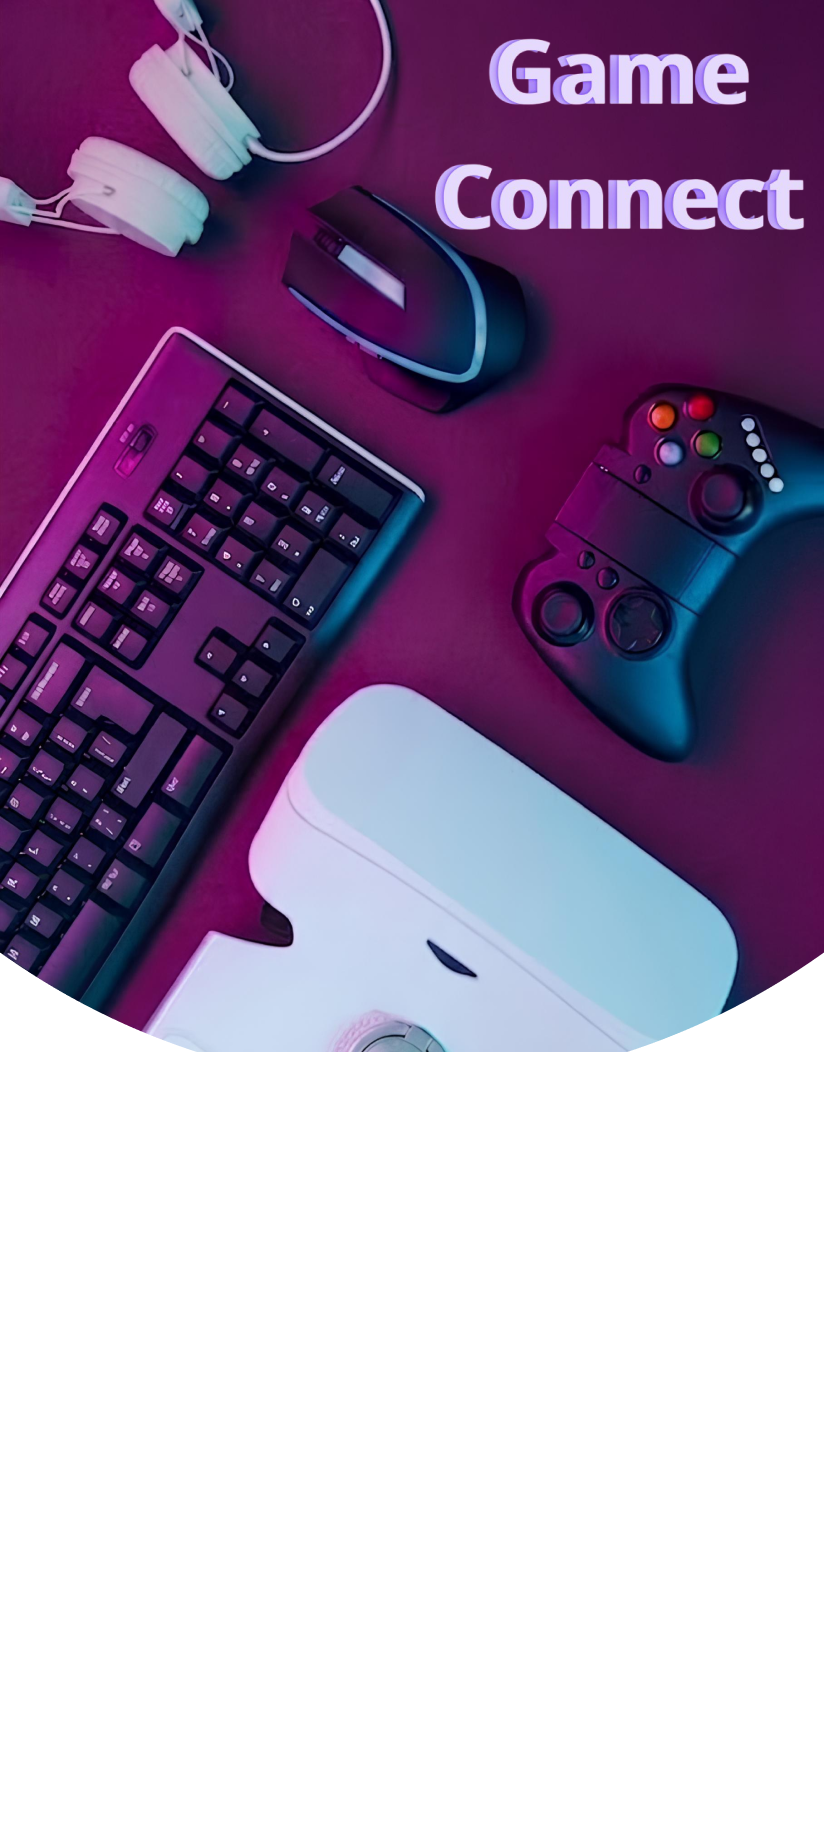
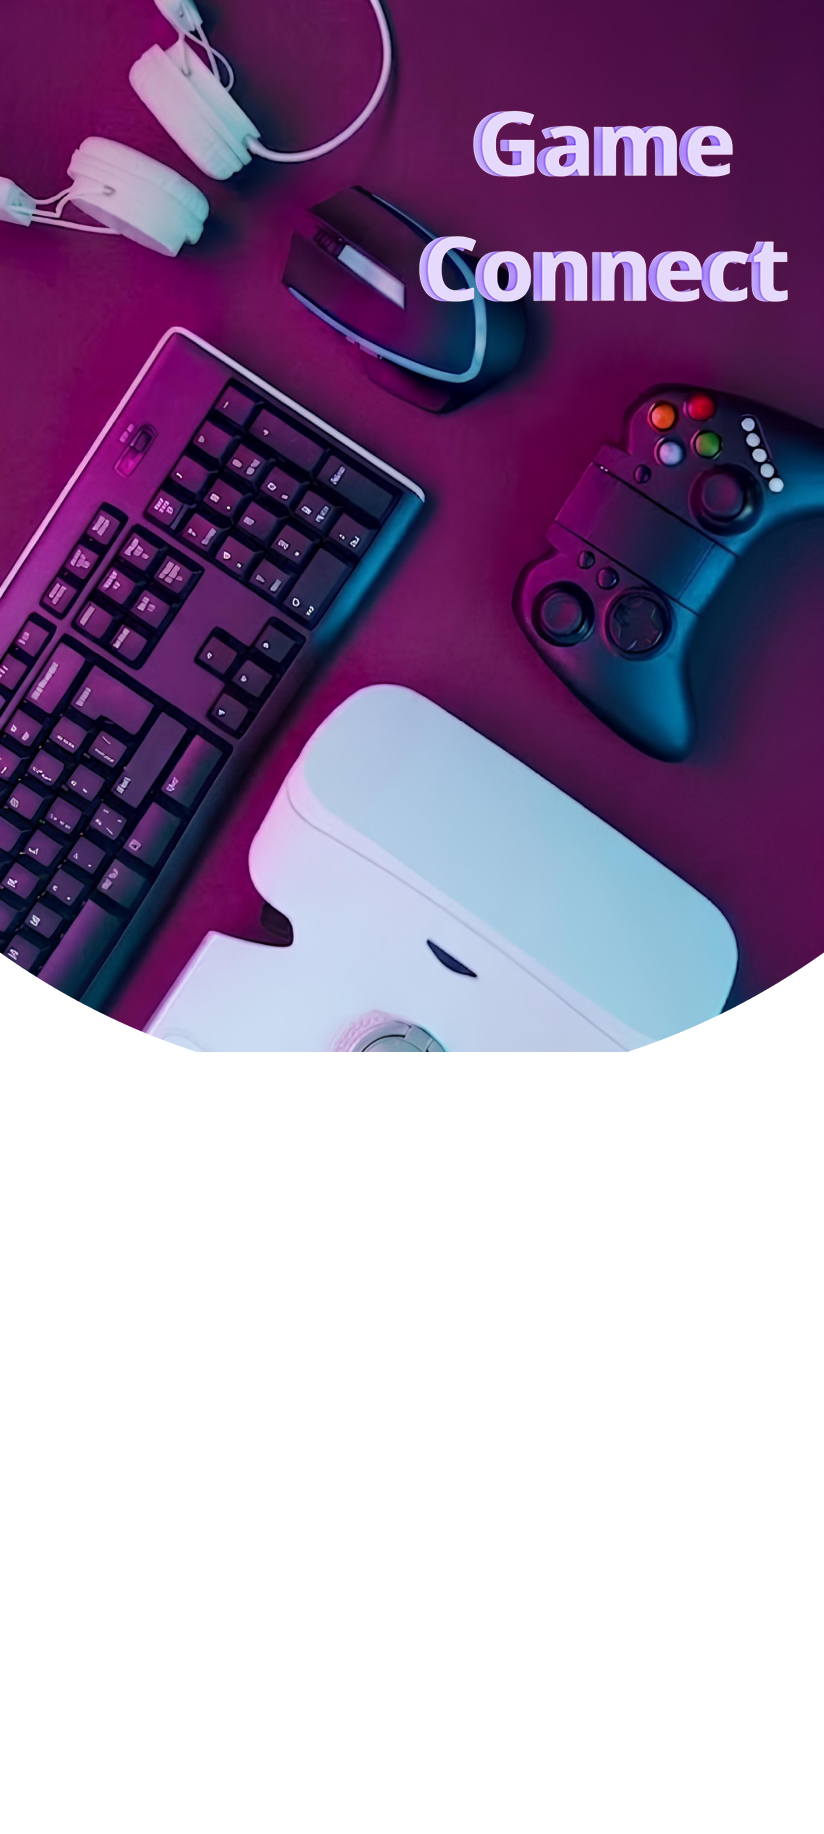
feat(auth): add recovery screen and link from login and forgot password screens

Changed region(s): [[0.4854, 0.0, 0.9709, 0.1865]]

diff --git a/app/(auth)/recovery.tsx b/app/(auth)/recovery.tsx
@@ -1,0 +1,77 @@
+import { useState } from "react";
+import { StyleSheet, TextInput, Pressable, Text, ActivityIndicator } from "react-native";
+import { Link } from "expo-router";
+import { AuthBackground } from "@/src/components/auth/auth-background";
+import { AuthCard } from "@/src/components/auth/auth-card";
+
+export default function ResetPasswordScreen() {
+  const [form, setForm] = useState({ password: "", confirmPassword: "" });
+  const isPending = false;
+
+  // Validación: campos llenos y que coincidan
+  const isFormValid = 
+    form.password.trim().length > 0 && 
+    form.confirmPassword.trim().length > 0 && 
+    form.password === form.confirmPassword;
+
+  return (
+    <AuthBackground>
+      <AuthCard>
+        <Text style={styles.titleTxt}>
+          Restablecer contraseña
+        </Text>
+        
+        <Text style={styles.description}>
+          Crea una nueva contraseña para tu cuenta. Asegúrate de que ambas coincidan.
+        </Text>
+
+        <TextInput
+          placeholder="Contraseña"
+          placeholderTextColor="gray"
+          secureTextEntry
+          onChangeText={(val) => setForm({ ...form, password: val })}
+          value={form.password}
+          style={styles.input}
+        />
+
+        <TextInput
+          placeholder="Confirmar contraseña"
+          placeholderTextColor="gray"
+          secureTextEntry
+          onChangeText={(val) => setForm({ ...form, confirmPassword: val })}
+          value={form.confirmPassword}
+          style={styles.input}
+        />
+
+        <Pressable
+          style={[styles.btn, !isFormValid && styles.btnDisabled]}
+          disabled={!isFormValid || isPending}
+        >
+          {isPending ? (
+            <ActivityIndicator color="#fff" />
+          ) : (
+            <Text style={styles.btnText}>Actualizar contraseña</Text>
+          )}
+        </Pressable>
+
+        <Link href="/(auth)/login" style={styles.link}>
+            <Text style={styles.linkText}>Cancelar</Text>
+        </Link>
+        <Link href="/(auth)/forgot" style={styles.link}>
+            <Text style={styles.linkText}>¿No recibiste el correo?</Text>
+        </Link>
+      </AuthCard>
+    </AuthBackground>
+  );
+}
+
+const styles = StyleSheet.create({
+  input: { height: 45, borderBottomWidth: 1, borderBottomColor: "#ccc", marginBottom: 20, fontSize: 16, color: "#000" },
+  btn: { backgroundColor: "#9b1999", borderRadius: 25, padding: 15, alignItems: "center", marginTop: 10 },
+  btnDisabled: { opacity: 0.5 },
+  btnText: { color: "white", fontWeight: "bold", fontSize: 18 },
+  link: { marginTop: 20, alignSelf: "center" },
+  linkText: { color: "#555", fontSize: 13 },
+  description: { color: "#000", fontSize: 14, marginBottom: 20, textAlign: "center", opacity: 0.72 },
+  titleTxt: { color: "#000", fontSize: 20, marginBottom: 20, fontWeight: "semibold", textAlign: "center" }
+});

diff --git a/app/(auth)/login.tsx b/app/(auth)/login.tsx
@@ -4,7 +4,6 @@ import { Link, useRouter } from 'expo-router';
 import { useLogin } from '@/src/hooks/useAuth';
 import { AuthBackground } from '@/src/components/auth/auth-background';
 import { AuthCard } from '@/src/components/auth/auth-card';
-import { AuthTitle } from '@/src/components/auth/auth-title';
 
 export default function LoginScreen() {
   const [form, setForm] = useState({ email: '', password: '' });
@@ -21,8 +20,6 @@ export default function LoginScreen() {
 
   return (
     <AuthBackground>
-      <AuthTitle />
-
       <AuthCard>
         {isError && <Text style={styles.errorText}>{error.message ?? 'Error desconocido'}</Text>}
 
@@ -53,6 +50,9 @@ export default function LoginScreen() {
 
         <Link href="/(auth)/signup" style={styles.link}>
           <Text style={styles.linkText}>¿No tienes cuenta? Regístrate Aquí</Text>
+        </Link>
+        <Link href="/(auth)/forgot" style={styles.link}>
+          <Text style={styles.linkText}>¿Olvidaste tu contraseña?</Text>
         </Link>
       </AuthCard>
     </AuthBackground>

diff --git a/app/(auth)/forgot.tsx b/app/(auth)/forgot.tsx
@@ -47,6 +47,9 @@ export default function ForgotPasswordScreen() {
         <Link href="/(auth)/login" style={styles.link}>
           <Text style={styles.linkText}>Volver al inicio</Text>
         </Link>
+        <Link href="/(auth)/recovery" style={styles.link}>
+            <Text style={styles.linkText}>recover</Text>
+        </Link>
       </AuthCard>
     </AuthBackground>
   );

diff --git a/app/(auth)/signup.tsx b/app/(auth)/signup.tsx
@@ -4,7 +4,6 @@ import { useState } from 'react';
 import { useSignup } from '@/src/hooks/useAuth';
 import { DateOfBirthInput } from '@/src/components/signup/DateOfBirthInput';
 import { AuthCard } from '@/src/components/auth/auth-card';
-import { AuthTitle } from '@/src/components/auth/auth-title';
 import { AuthBackground } from '@/src/components/auth/auth-background';
 
 export default function SignUpScreen() {
@@ -25,7 +24,6 @@ export default function SignUpScreen() {
 
   return (
     <AuthBackground>
-      <AuthTitle />
       <AuthCard>
         {!!successMessage && <Text style={styles.successText}>{successMessage}</Text>}
         {isError && <Text style={styles.errorText}>{error.message ?? 'Error'}</Text>}